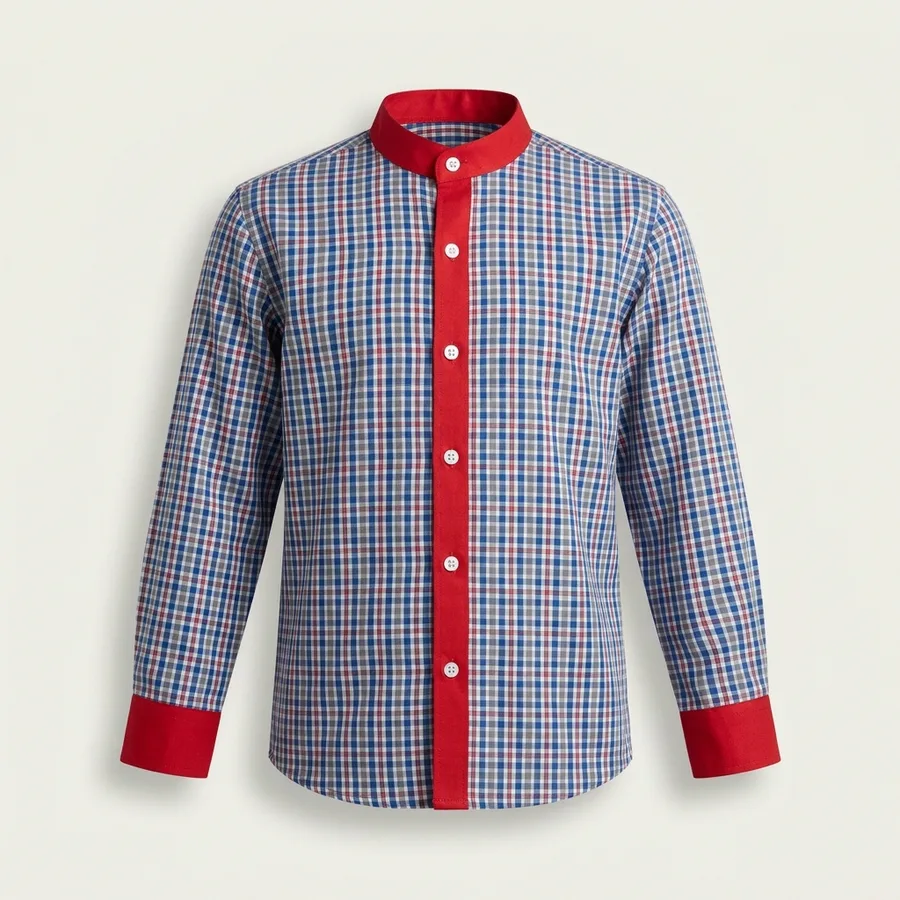
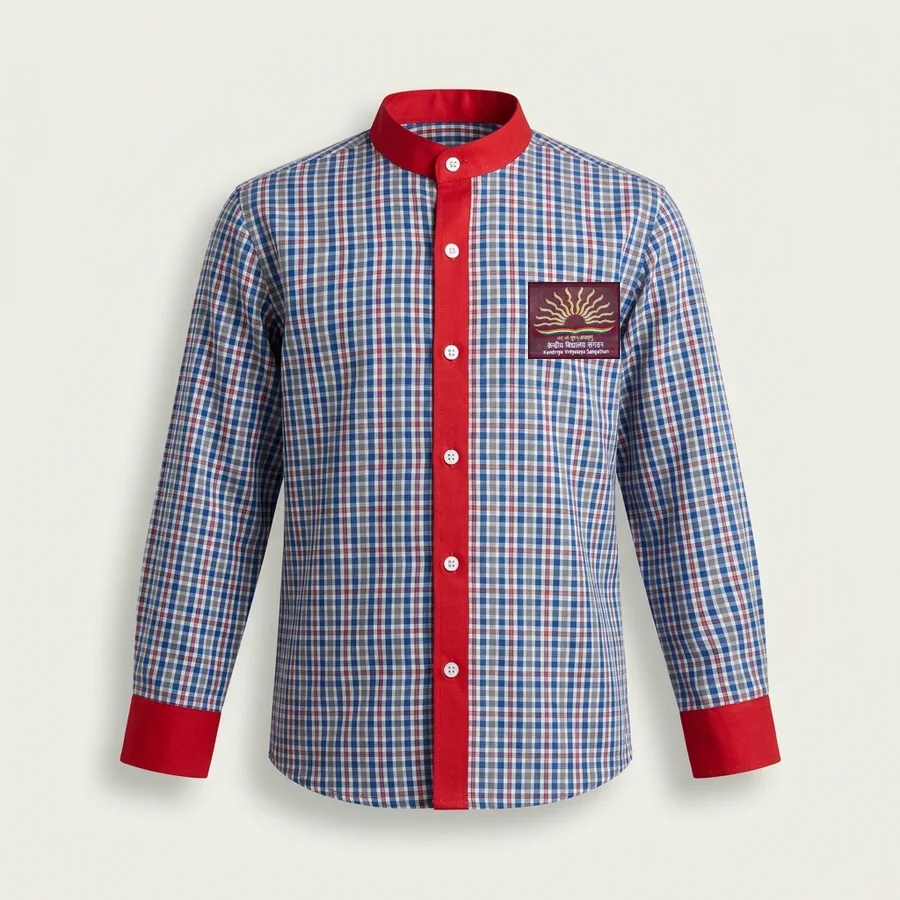
feat(kv): PT kit, hooded jackets, coatie, belt, socks and leggings for Kendriya Vidyalaya
Adds 20 KV items from the KVS uniform pattern: house PT T-shirts in red,
blue, green and yellow, navy track pants, grey hooded jackets (full and
half sleeve), a sleeveless coatie, girls' leggings, a knitted belt and
navy and grey socks. Garments come in Class 1-5 and Class 6-12 bands
with their own sizes. Migration 0015 adds them to the live database and
repairs the garbled dash in existing KV item names.

Product photos carry the KV woven patch on the left chest (and on the
belt buckle); the 9 existing KV top photos are replaced with patched
versions under the same file names.

Changed region(s): [[0.56, 0.3111, 0.7156, 0.4044]]

diff --git a/backend/catalog/kv_catalog.py b/backend/catalog/kv_catalog.py
@@ -1,0 +1,199 @@
+"""
+Kendriya Vidyalaya items the store was missing: PT kit, jackets and coatie,
+belt, socks and leggings.
+
+Source: the KVS uniform pattern (92nd Board of Governors, 2012, with its
+corrigendum), which suppliers still follow:
+- PT, all classes: house T-shirt with white collar in red, blue, green or
+  sun yellow, and navy track pants with white piping.
+- Winter: grey hooded jacket, full or half sleeve, as an option to the grey
+  V-neck sweater or cardigan.
+- Belt: blue and grey knitted belt with the KV monogram on the buckle.
+- Socks: navy with red lining and grey with red lining (summer and winter).
+- Girls: plain grey leggings as an option with the tunic or divided skirt.
+The sleeveless coatie is not in the KVS pattern; many Vidyalayas sell it as a
+layer over the shirt, so it is offered alongside.
+
+Items with photo None show the shop's drawn placeholder until a photo is added.
+
+Sizes follow the store's existing KV items: junior sizes for Classes 1-5,
+senior sizes for Classes 6-12. No stock is created; KV stock is set per city
+from the panel, as for the KV items already in the store.
+
+Applied by migration 0015. Safe to run again: items are matched by school +
+name and variants by SKU, so nothing is duplicated.
+"""
+
+from decimal import Decimal
+
+PHOTO_BASE = "https://school-store.aqualite.workers.dev/products/"
+KV_CODE = "CHAIN-KV"
+
+JUNIOR = (1, 5)
+SENIOR = (6, 12)
+ALL_CLASSES = (1, 12)
+
+JUNIOR_SIZES = ["20", "22", "24", "26", "28", "30"]
+SENIOR_SIZES = ["28", "30", "32", "34", "36", "38", "40", "42", "44"]
+JUNIOR_PANT_SIZES = ["20", "22", "24", "26", "28"]
+SENIOR_PANT_SIZES = ["28", "30", "32", "34", "36", "38", "40"]
+LEGGING_SIZES = ["20", "22", "24", "26", "28", "30", "32"]
+
+HOUSES = [
+    ("Red", "RED", "kv-house-tshirt-red.webp"),
+    ("Blue", "BLUE", "kv-house-tshirt-blue.webp"),
+    ("Green", "GREEN", "kv-house-tshirt-green.webp"),
+    ("Yellow", "YELLOW", "kv-house-tshirt-yellow.webp"),
+]
+
+# An earlier import stored the en dash in KV item names as UTF-8 read as
+# cp1252 ("Class 1â€“5"). Shown to parents as is, so it is repaired here.
+MOJIBAKE_DASH = "â€“"
+
+
+def _sized(prefix, sizes):
+    return [(size, f"{prefix}-{size}") for size in sizes]
+
+
+def _banded(name, sku, photo, description, junior_price, senior_price, *,
+            gender="unisex", category="uniform", junior_sizes=None, senior_sizes=None):
+    """One item in two class bands: Classes 1-5 and Classes 6-12."""
+    junior_cost = (Decimal(junior_price) * Decimal("0.6")).quantize(Decimal("1.00"))
+    senior_cost = (Decimal(senior_price) * Decimal("0.6")).quantize(Decimal("1.00"))
+    return [
+        {
+            "name": f"{name} (Class 1-5)", "category": category, "gender": gender,
+            "classes": JUNIOR, "photo": photo, "description": description,
+            "cost": str(junior_cost), "price": junior_price,
+            "variants": _sized(f"KV-{sku}-JR", junior_sizes or JUNIOR_SIZES),
+        },
+        {
+            "name": f"{name} (Class 6-12)", "category": category, "gender": gender,
+            "classes": SENIOR, "photo": photo, "description": description,
+            "cost": str(senior_cost), "price": senior_price,
+            "variants": _sized(f"KV-{sku}-SR", senior_sizes or SENIOR_SIZES),
+        },
+    ]
+
+
+KV_ITEMS = []
+
+for colour, code, photo in HOUSES:
+    shade = "sun yellow" if colour == "Yellow" else colour.lower()
+    KV_ITEMS += _banded(
+        f"KV {colour} House PT T-Shirt", f"PT-TEE-{code}", photo,
+        f"Kendriya Vidyalaya {shade} house T-shirt with white collar and white sleeve bands, "
+        "for PT and sports days. Wear your child's house colour.",
+        "320.00", "390.00",
+    )
+
+KV_ITEMS += _banded(
+    "KV Navy PT Track Pants", "PT-TRACK", None,
+    "Navy blue track pants with white piping down each side and an elastic waist, for PT and sports days.",
+    "340.00", "420.00",
+    junior_sizes=JUNIOR_PANT_SIZES, senior_sizes=SENIOR_PANT_SIZES,
+)
+KV_ITEMS += _banded(
+    "KV Grey Hooded Jacket, Full Sleeve", "JACKET-FULL", "kv-hooded-jacket-full.webp",
+    "Grey zip-front hooded winter jacket with full sleeves and red stripes on the cuffs and hem.",
+    "690.00", "790.00",
+)
+KV_ITEMS += _banded(
+    "KV Grey Hooded Jacket, Half Sleeve", "JACKET-HALF", None,
+    "Grey zip-front hooded jacket with half sleeves and red stripes on the sleeve ends and hem. "
+    "Worn over the shirt in early winter.",
+    "590.00", "680.00",
+)
+KV_ITEMS += _banded(
+    "KV Grey Sleeveless Coatie", "COATIE", "kv-coatie-grey.webp",
+    "Grey sleeveless coatie with a V-neck, button front, two welt pockets and red piping. "
+    "Worn as a layer over the uniform shirt.",
+    "450.00", "520.00",
+)
+
+KV_ITEMS += [
+    {
+        "name": "KV Girls Grey Leggings (Class 1-8)", "category": "uniform", "gender": "girl",
+        "classes": (1, 8), "photo": None,
+        "description": "Plain grey full-length cotton leggings, worn with the tunic or divided skirt.",
+        "cost": "160.00", "price": "270.00", "variants": _sized("KV-LEGGINGS", LEGGING_SIZES),
+    },
+    {
+        "name": "KV Knitted Belt with Monogram Buckle", "category": "uniform-accessories",
+        "product_type": "BELT", "gender": "unisex", "classes": ALL_CLASSES,
+        "photo": "kv-belt-knitted.webp",
+        "description": "Blue and grey knitted elastic belt with the Kendriya Vidyalaya monogram on the buckle.",
+        "cost": "95.00", "price": "180.00",
+        "variants": [("Junior (24 Inch)", "KV-BELT-24"), ("Senior (32 Inch)", "KV-BELT-32")],
+    },
+    {
+        "name": "KV Navy Socks with Red Stripes (Pack of 2)", "category": "uniform-accessories",
+        "product_type": "SOCKS", "gender": "unisex", "classes": ALL_CLASSES,
+        "photo": None,
+        "description": "Navy blue cotton school socks with red stripes at the top. Pack of 2 pairs.",
+        "cost": "95.00", "price": "180.00",
+        "variants": [("Size 4-6 (Junior)", "KV-SOCK-NAVY-JR"), ("Size 7-9 (Senior)", "KV-SOCK-NAVY-SR")],
+    },
+    {
+        "name": "KV Grey Socks with Red Stripes (Pack of 2)", "category": "uniform-accessories",
+        "product_type": "SOCKS", "gender": "unisex", "classes": ALL_CLASSES,
+        "photo": None,
+        "description": "Grey cotton school socks with red stripes at the top. Pack of 2 pairs.",
+        "cost": "95.00", "price": "180.00",
+        "variants": [("Size 4-6 (Junior)", "KV-SOCK-GREY-JR"), ("Size 7-9 (Senior)", "KV-SOCK-GREY-SR")],
+    },
+]
+
+
+def apply_kv_catalog(School, Grade, Category, Product, ProductVariant):
+    """Add the missing KV items and repair garbled KV names. Returns how many items were added."""
+    school = School.objects.filter(code=KV_CODE).first()
+    if school is None:
+        return 0  # directory not imported yet (tests, fresh installs)
+
+    for product in Product.objects.filter(school=school, name__contains=MOJIBAKE_DASH):
+        product.name = product.name.replace(MOJIBAKE_DASH, "-")
+        product.description = product.description.replace(MOJIBAKE_DASH, "-")
+        product.save(update_fields=["name", "description", "updated_at"])
+    for product in Product.objects.filter(school=school, description__contains=MOJIBAKE_DASH):
+        product.description = product.description.replace(MOJIBAKE_DASH, "-")
+        product.save(update_fields=["description", "updated_at"])
+
+    by_class = {}
+    for grade in Grade.objects.filter(name__startswith="Class "):
+        by_class[int(grade.name[6:])] = grade
+    categories = {c.slug: c for c in Category.objects.all()}
+
+    added = 0
+    for spec in KV_ITEMS:
+        category = categories.get(spec["category"])
+        if category is None:
+            continue
+        product = Product.objects.filter(name=spec["name"], school=school).first()
+        if product is None:
+            product = Product(name=spec["name"], school=school)
+            added += 1
+        product.city_id = school.city_id
+        product.category = category
+        product.product_type = spec.get("product_type")
+        product.gender = spec["gender"]
+        product.description = spec["description"]
+        product.cost_price = Decimal(spec["cost"])
+        product.selling_price = Decimal(spec["price"])
+        product.images = [PHOTO_BASE + spec["photo"]] if spec["photo"] else []
+        product.class_from, product.class_to = spec["classes"]
+        product.needs_review = False
+        product.active = True
+        product.save()
+        low, high = spec["classes"]
+        product.grades.set([by_class[n] for n in range(low, high + 1) if n in by_class])
+
+        for size, sku in spec["variants"]:
+            variant = ProductVariant.objects.filter(sku=sku).first() or ProductVariant(sku=sku)
+            variant.product = product
+            variant.school_id = school.id
+            variant.city_id = school.city_id
+            variant.size = size
+            variant.active = True
+            variant.save()
+    return added

diff --git a/backend/catalog/test_kv_catalog.py b/backend/catalog/test_kv_catalog.py
@@ -1,0 +1,75 @@
+from decimal import Decimal
+
+from django.core.management import call_command
+from django.test import TestCase, override_settings
+
+from schools.models import Grade, School
+
+from .kv_catalog import KV_ITEMS, MOJIBAKE_DASH, apply_kv_catalog
+from .models import Category, Product, ProductVariant
+
+LOCMEM = {"default": {"BACKEND": "django.core.cache.backends.locmem.LocMemCache"}}
+
+
+def run():
+    return apply_kv_catalog(School, Grade, Category, Product, ProductVariant)
+
+
+@override_settings(CACHES=LOCMEM)
+class KvCatalogTests(TestCase):
+    @classmethod
+    def setUpTestData(cls):
+        call_command("seed_data")
+        cls.kv = School.objects.create(name="Kendriya Vidyalaya", code="CHAIN-KV", active=True)
+
+    def test_adds_every_item_once(self):
+        self.assertEqual(run(), len(KV_ITEMS))
+        self.assertEqual(run(), 0)
+        self.assertEqual(Product.objects.filter(school=self.kv).count(), len(KV_ITEMS))
+        expected_variants = sum(len(spec["variants"]) for spec in KV_ITEMS)
+        self.assertEqual(ProductVariant.objects.filter(product__school=self.kv).count(), expected_variants)
+
+    def test_four_house_tshirts_in_two_class_bands(self):
+        run()
+        tees = Product.objects.filter(school=self.kv, name__contains="House PT T-Shirt")
+        self.assertEqual(tees.count(), 8)
+        junior = Product.objects.get(school=self.kv, name="KV Red House PT T-Shirt (Class 1-5)")
+        senior = Product.objects.get(school=self.kv, name="KV Red House PT T-Shirt (Class 6-12)")
+        self.assertEqual(
+            sorted(g.name for g in junior.grades.all()),
+            sorted(f"Class {n}" for n in range(1, 6)),
+        )
+        self.assertEqual(senior.grades.count(), 7)
+        self.assertEqual(junior.gender, "unisex")
+        self.assertIn("20", junior.variants.values_list("size", flat=True))
+        self.assertIn("44", senior.variants.values_list("size", flat=True))
+        self.assertTrue(junior.images[0].endswith("kv-house-tshirt-red.webp"))
+
+    def test_coatie_and_jackets_present(self):
+        run()
+        names = set(Product.objects.filter(school=self.kv).values_list("name", flat=True))
+        for name in (
+            "KV Grey Sleeveless Coatie (Class 1-5)",
+            "KV Grey Sleeveless Coatie (Class 6-12)",
+            "KV Grey Hooded Jacket, Half Sleeve (Class 6-12)",
+            "KV Grey Hooded Jacket, Full Sleeve (Class 1-5)",
+            "KV Navy PT Track Pants (Class 6-12)",
+        ):
+            self.assertIn(name, names)
+
+    def test_repairs_garbled_dash_in_existing_names(self):
+        uniform = Category.objects.get(slug="uniform")
+        old = Product.objects.create(
+            name=f"KV Boys Grey Shorts (Class 1{MOJIBAKE_DASH}5)",
+            description=f"Girls wear it in classes 1{MOJIBAKE_DASH}8.",
+            school=self.kv, category=uniform, gender="boy",
+            cost_price=Decimal("5"), selling_price=Decimal("10"),
+        )
+        run()
+        old.refresh_from_db()
+        self.assertEqual(old.name, "KV Boys Grey Shorts (Class 1-5)")
+        self.assertEqual(old.description, "Girls wear it in classes 1-8.")
+
+    def test_no_kv_school_is_a_no_op(self):
+        self.kv.delete()
+        self.assertEqual(run(), 0)

diff --git a/backend/catalog/migrations/0015_kv_catalog.py b/backend/catalog/migrations/0015_kv_catalog.py
@@ -1,0 +1,27 @@
+from django.db import migrations
+
+
+def forwards(apps, schema_editor):
+    from catalog.kv_catalog import apply_kv_catalog
+    from common.cache_utils import invalidate_catalog_cache
+
+    apply_kv_catalog(
+        apps.get_model("schools", "School"),
+        apps.get_model("schools", "Grade"),
+        apps.get_model("catalog", "Category"),
+        apps.get_model("catalog", "Product"),
+        apps.get_model("catalog", "ProductVariant"),
+    )
+    # The public catalogue is cached; show the new items straight away.
+    invalidate_catalog_cache()
+
+
+class Migration(migrations.Migration):
+    dependencies = [
+        ("catalog", "0014_merge_20261013_1626"),
+        ("schools", "0017_schoolbranch_udise_code"),
+    ]
+
+    operations = [
+        migrations.RunPython(forwards, migrations.RunPython.noop),
+    ]
